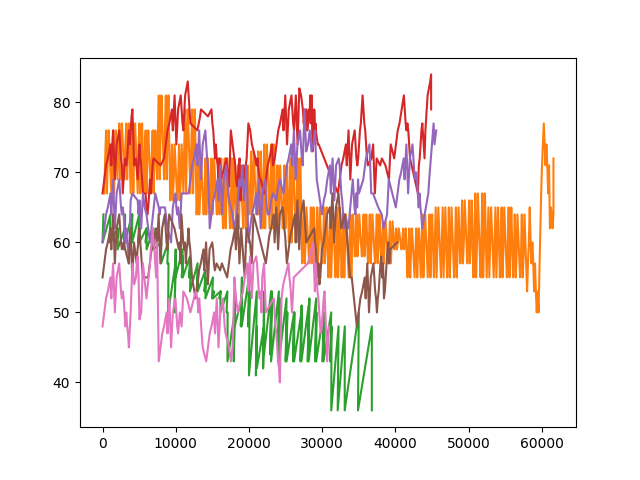
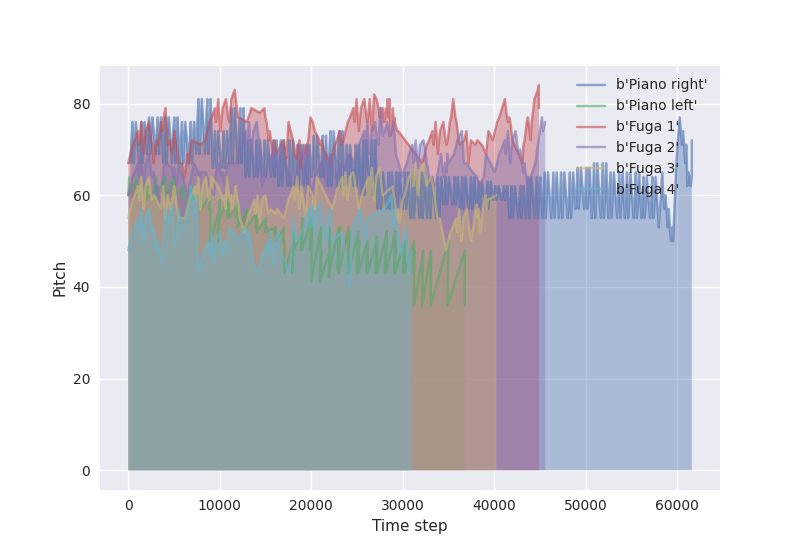
adding visualisation

diff --git a/main.py b/main.py
@@ -480,12 +480,16 @@ f.close()
 
 import matplotlib.pyplot as plt
 
-plotTracks = []
+plt.style.use('seaborn')
+
 for track in demo.tracks:
     pitch = [ord(note.key) for note in track.notes]
     tick = [note.startTime for note in track.notes]
-    plotTracks += [tick, pitch]
+    if pitch:
+        plt.fill_between(tick, pitch, alpha=0.4)
+        plt.plot(tick, pitch, label=track.name, alpha=0.6)
 
-plt.plot(*plotTracks)
-plt.show()
+plt.xlabel("Time step")
+plt.ylabel("Pitch")
+plt.legend(loc='upper right')
 plt.savefig('music.png')
